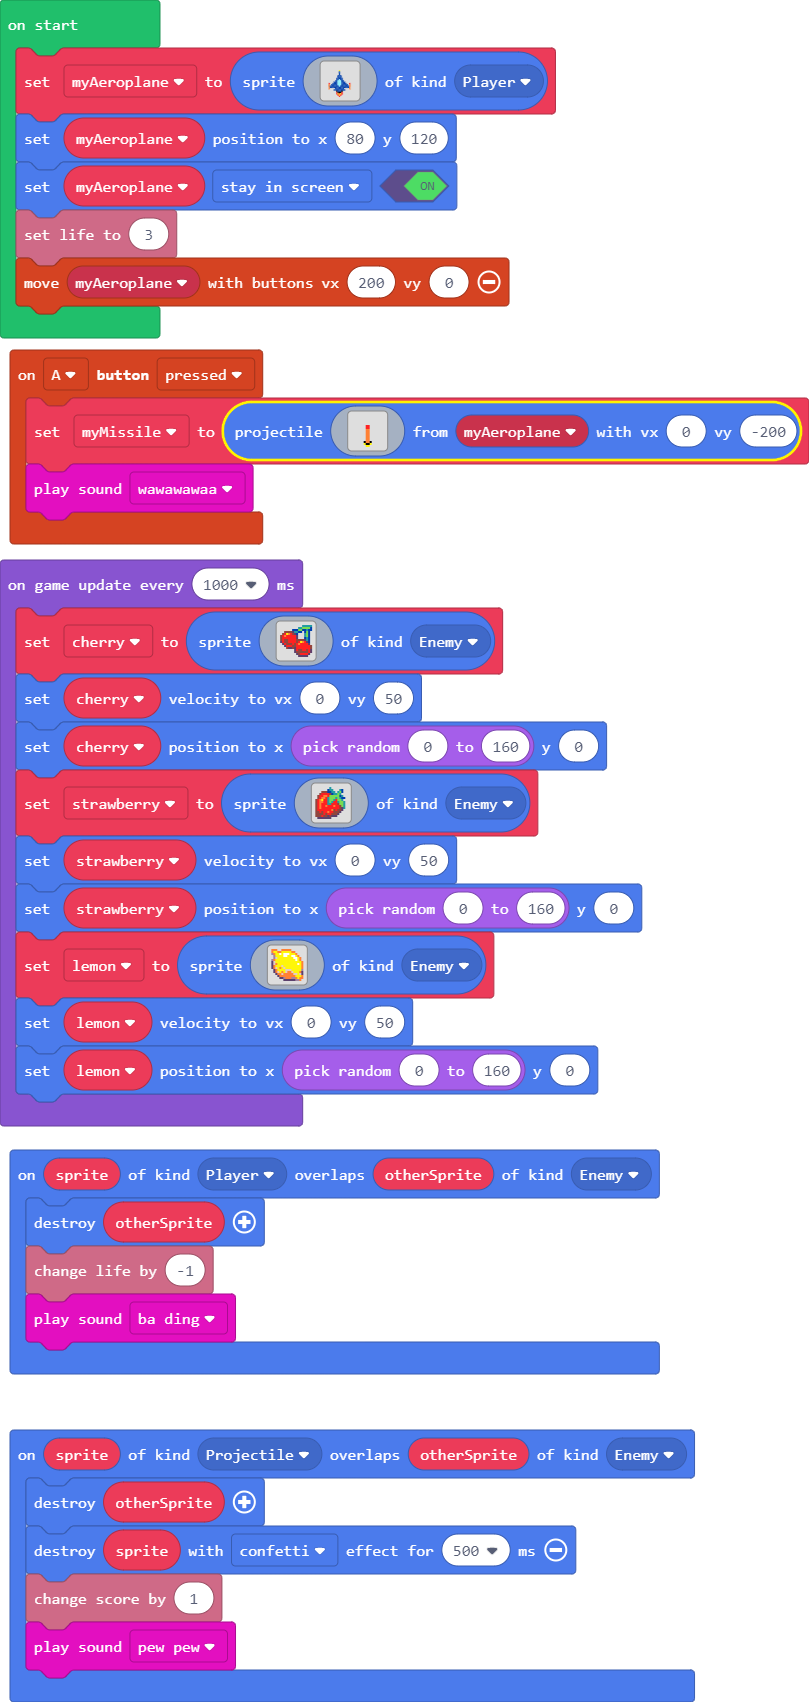
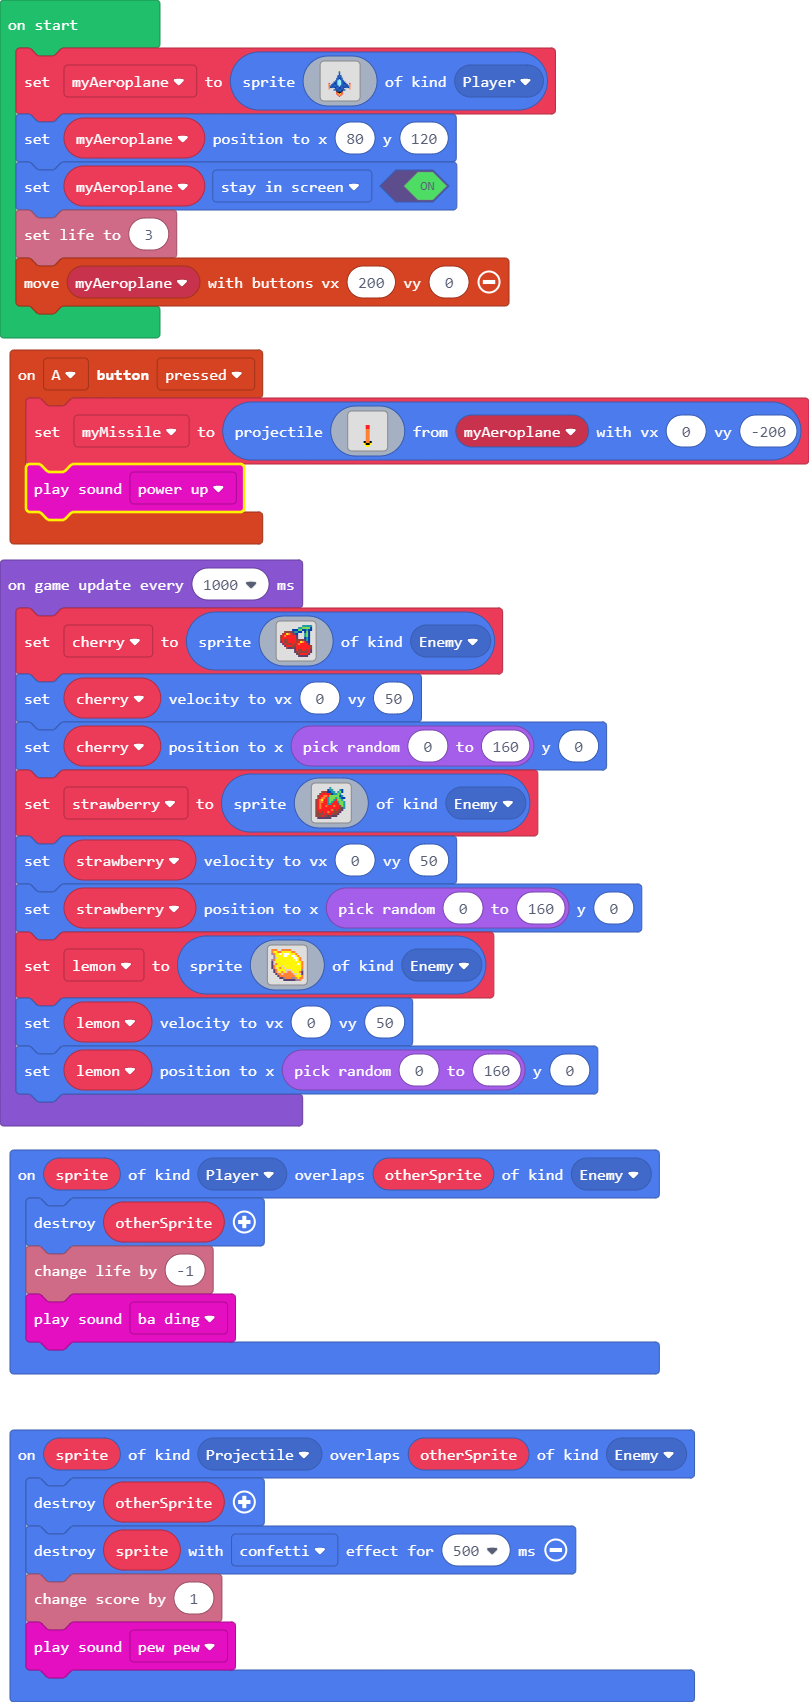
Changed missile sound

Changed region(s): [[0.1545, 0.2491, 0.3399, 0.3114], [0.0309, 0.2491, 0.0618, 0.3114]]

diff --git a/main.ts b/main.ts
@@ -23,7 +23,7 @@ controller.A.onEvent(ControllerButtonEvent.Pressed, function () {
 . . . . . . 5 f f 5 . . . . . . 
 . . . . . . . 5 5 . . . . . . . 
 `, myAeroplane, 0, -200)
-    music.wawawawaa.play()
+    music.powerUp.play()
 })
 sprites.onOverlap(SpriteKind.Player, SpriteKind.Enemy, function (sprite, otherSprite) {
     otherSprite.destroy()
